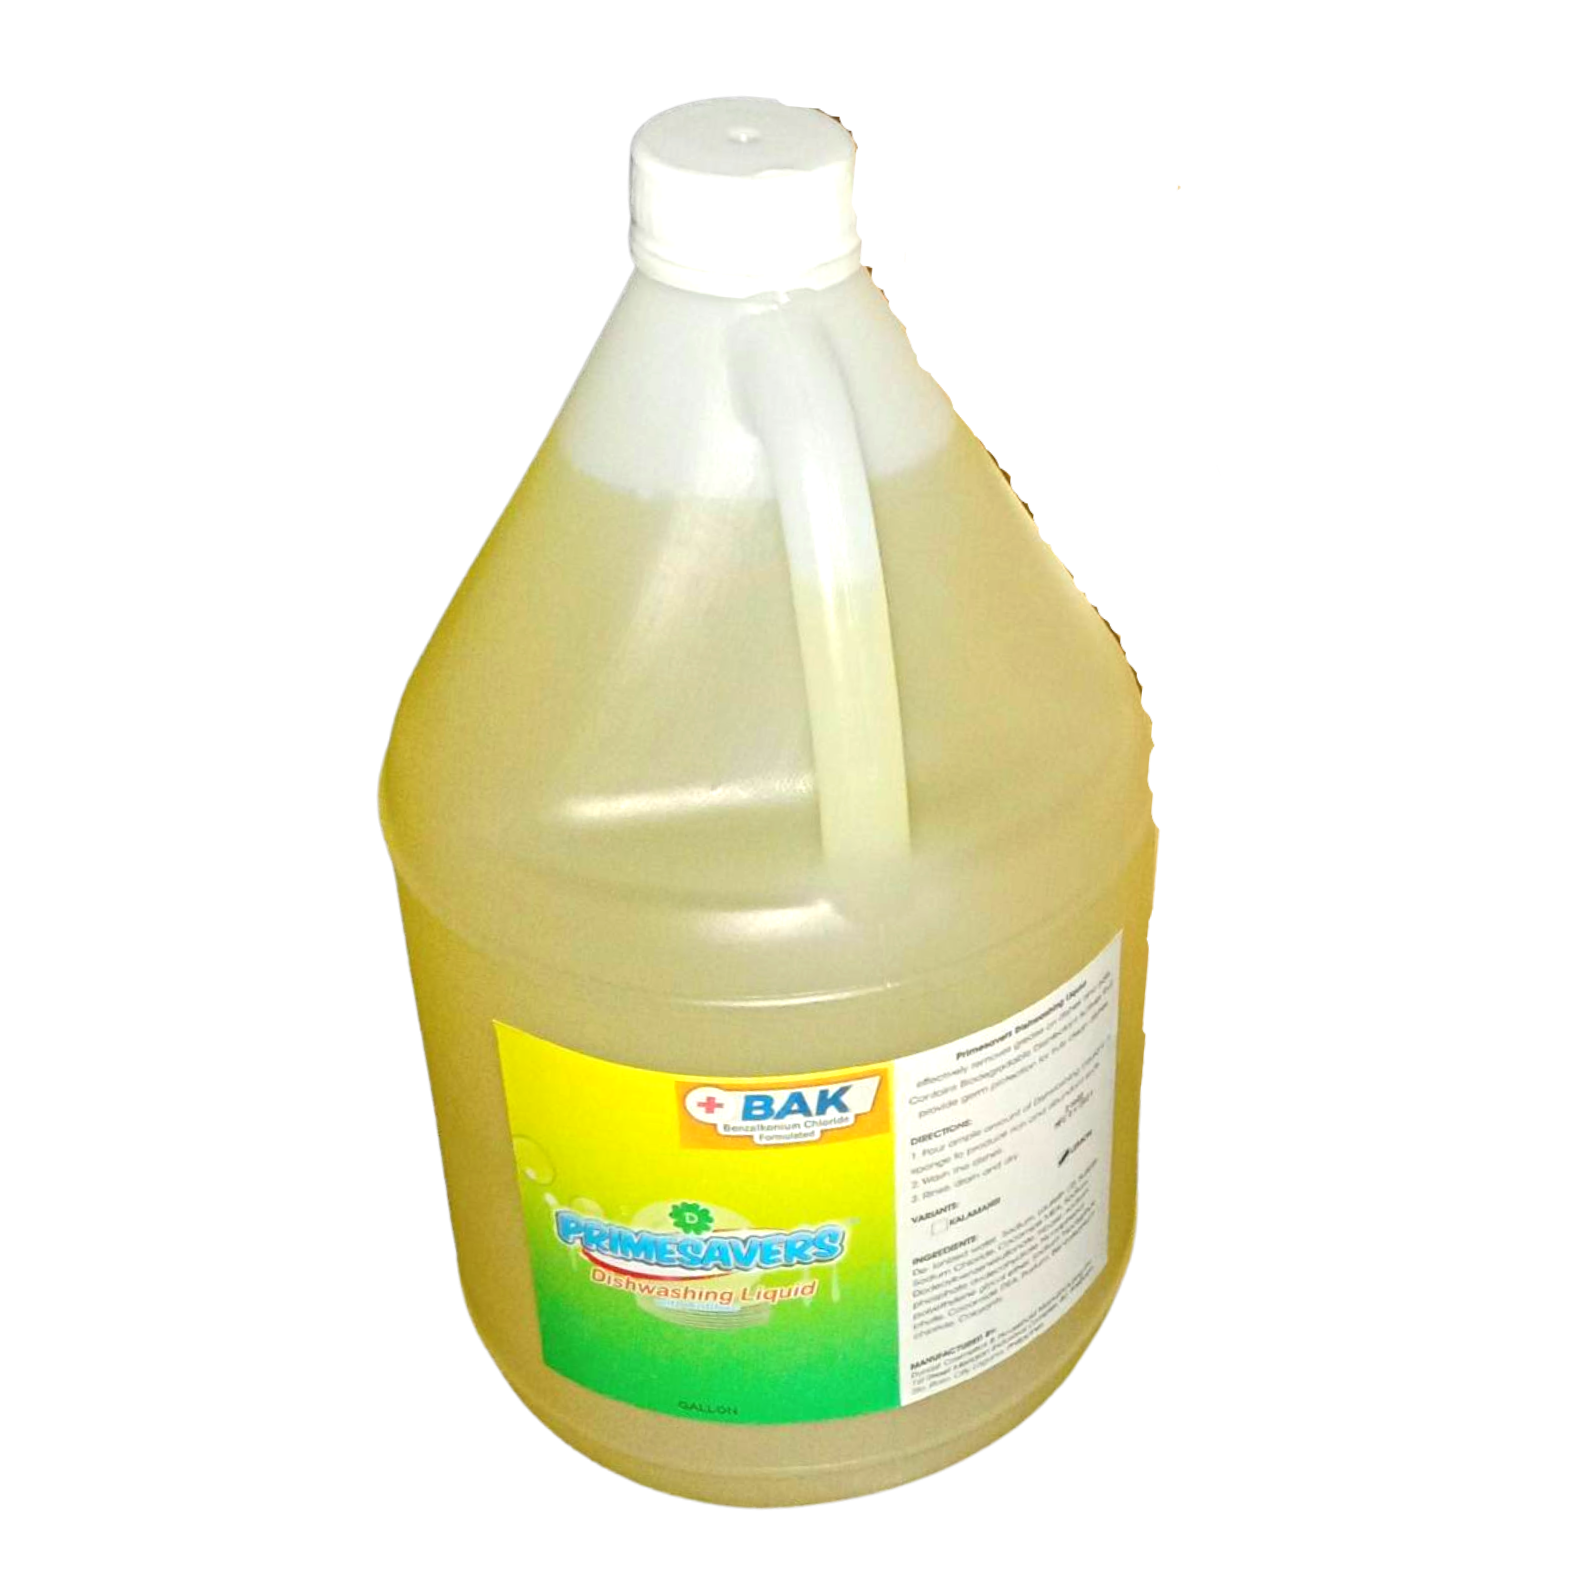
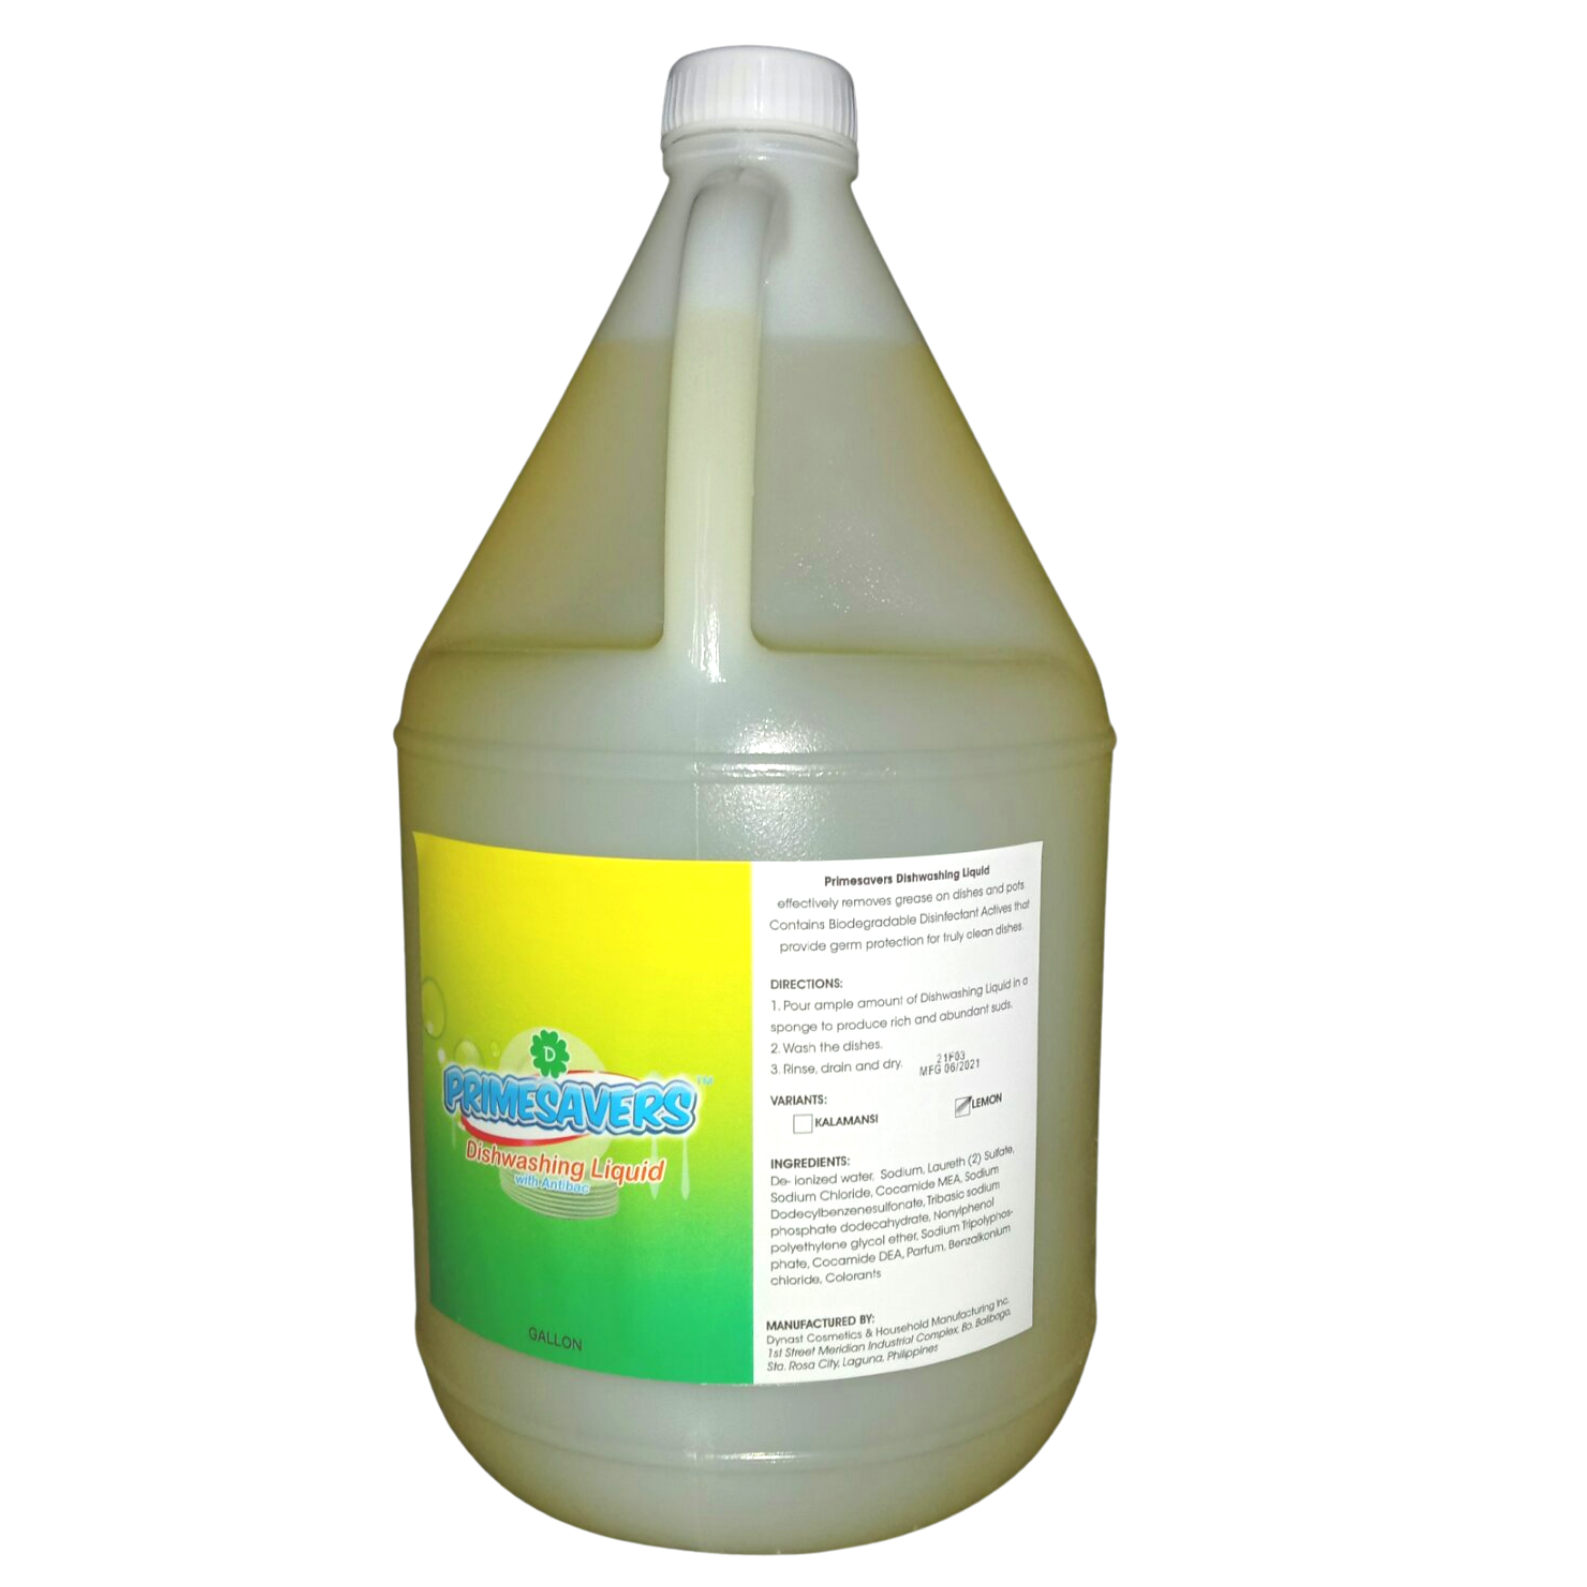
products added

diff --git a/Products.html b/Products.html
@@ -294,9 +294,9 @@
        <div class="row">
         <div class="col-4">
           <div class="card mx-2 my-2">
-            <img class= "img-fluid card-img-top" src= "images/Ecowash Dishwashing Liquid.png" alt= "Ecowash Dishwashing Liquid 500mL" width= 75% height= 75%>
+            <img class= "img-fluid card-img-top" src= "images/Primesavers Dishwashing Liquid gallon.png" alt= "Primesavers Dishwashing gallon" width= 75% height= 75%>
             <div class= "card-body">
-             <h5 class="card-title">Ecowash Dishwashing Liquid 500mL</h5>
+             <h5 class="card-title">Primesavers Dishwashing Liquid gallon</h5>
             </div>
           </div>
         </div>
